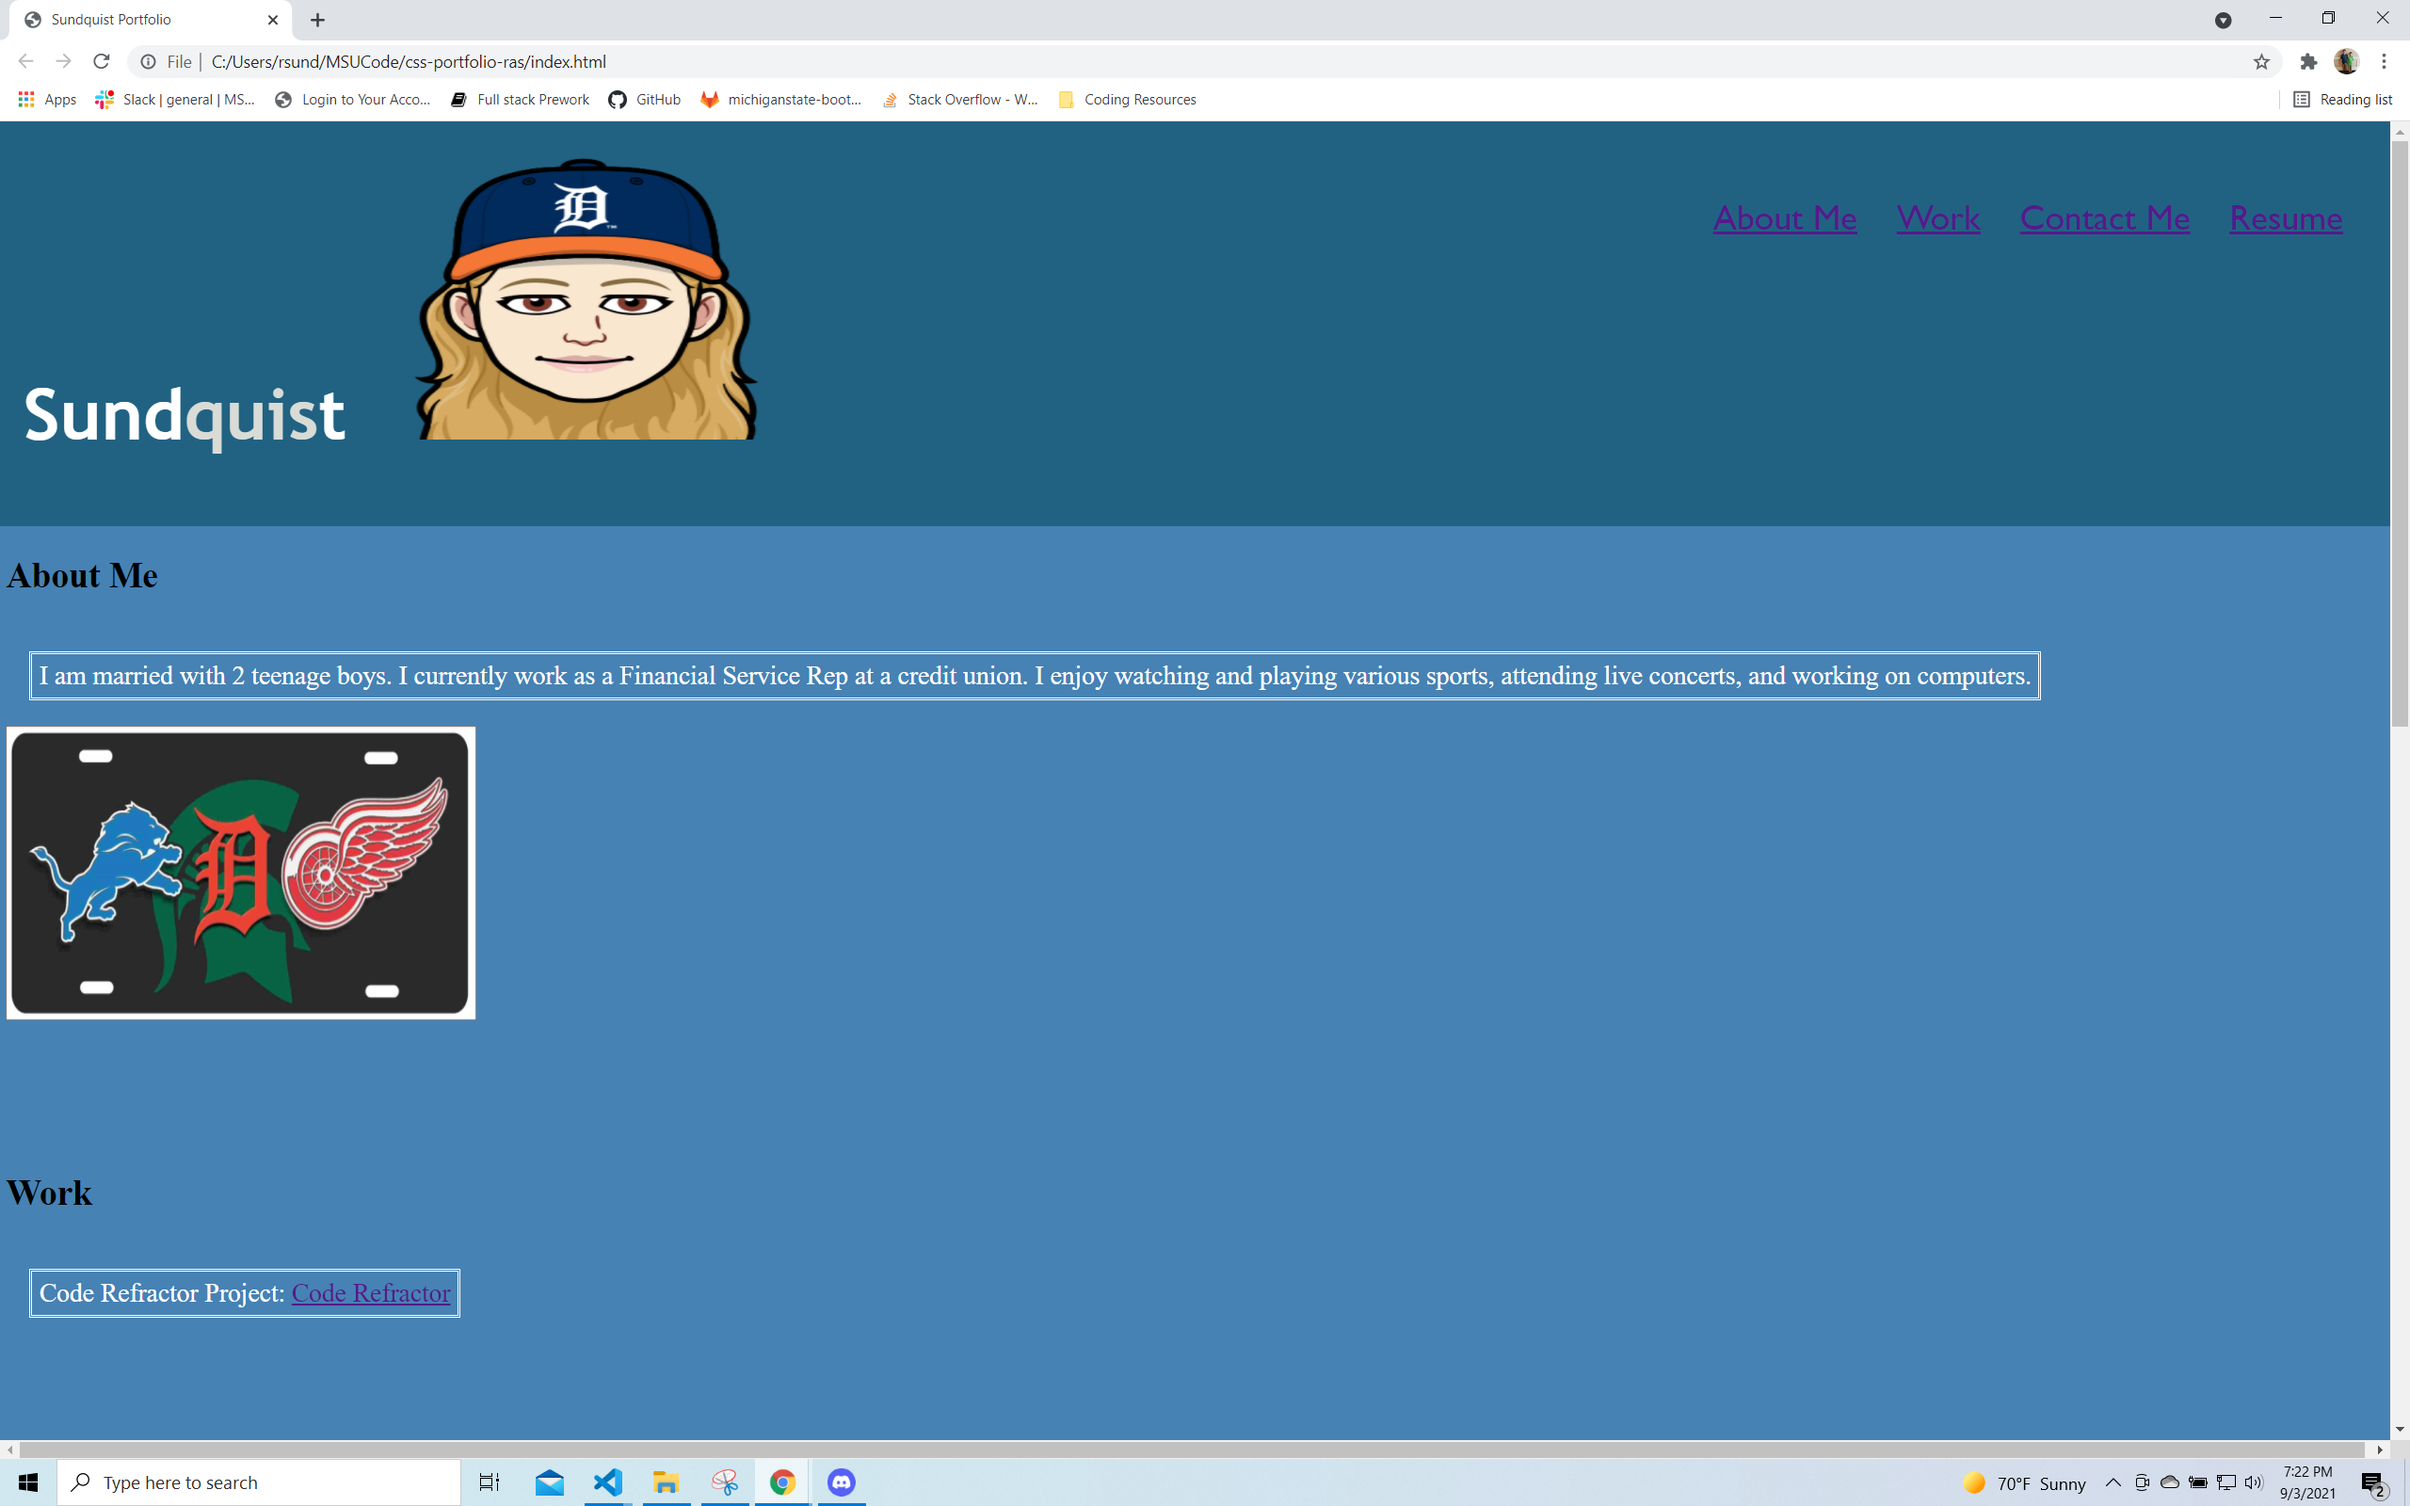
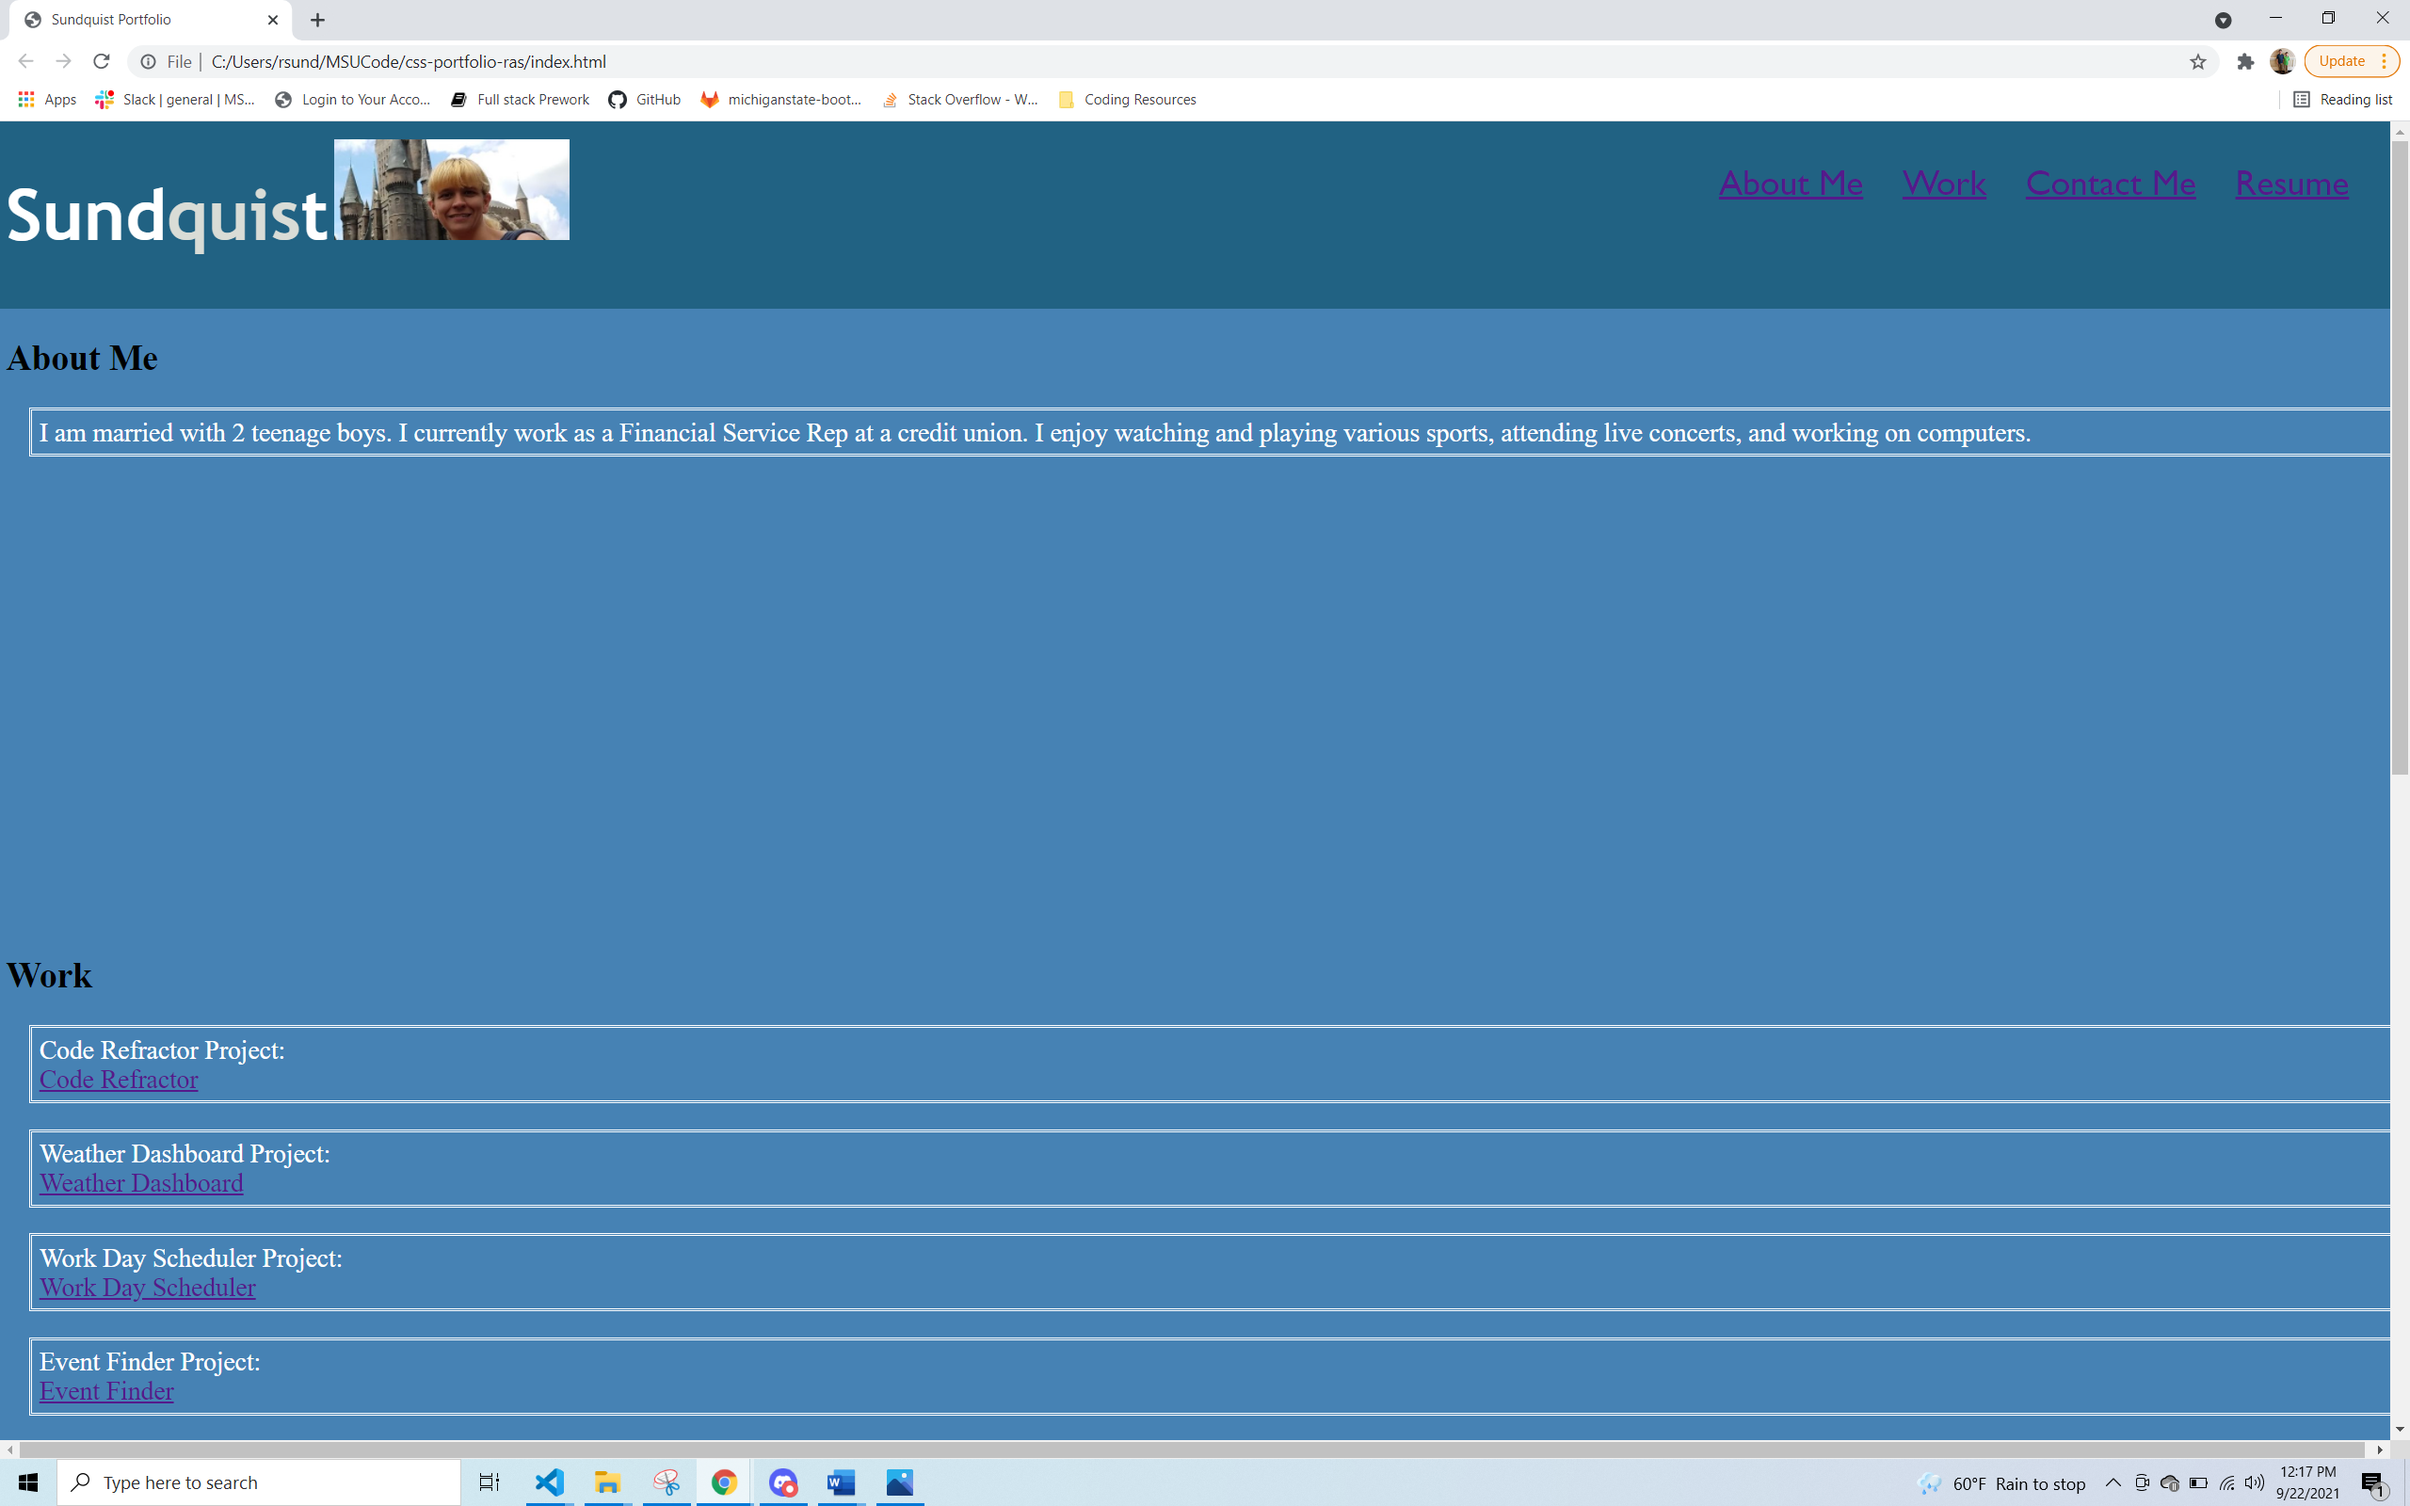
updated screenshot

diff --git a/Assets/CSS/style.css b/Assets/CSS/style.css
@@ -78,9 +78,10 @@ h1 {
     margin-left: 20px;
     font-size: 22px;
     border-style: double;
-    /* border-radius: inherit; */
+    /* border:initial; */
     display: flex;
     flex-direction: column;
+    
 }
 
 .a:link {
@@ -108,7 +109,7 @@ h1 {
 
     .header h1 {
         display: inline-block;
-        font-size: 20px;
+        font-size: 22px;
     }
     
     .header h1 .quis {
@@ -116,7 +117,7 @@ h1 {
     }
     
     .header img {
-        width: 20px;
+        width: 30px;
         height:auto
     }
 
@@ -125,7 +126,7 @@ h1 {
         margin-right: 5px;
         float: right;
         font-family: 'Gill Sans', 'Gill Sans MT', Calibri, 'Trebuchet MS', sans-serif;
-        font-size: 10px;
+        font-size: 12px;
     }
     
     .header nav ul {

diff --git a/index.html b/index.html
@@ -59,7 +59,7 @@
 
 <div class="container" id="resume">
     <h2>Resume</h2>
-    <p class="paragraph"> Resume <a href=Assets\BeckyResume.pdf>Resume</a> 
+    <p class="paragraph"> Resume: <a href=Assets\BeckyResume.pdf>Resume</a> 
     </p>
 </div>
 

diff --git a/README.md b/README.md
@@ -8,4 +8,4 @@
  - https://rsundquist.github.io/css-portfolio-ras/
 
 
-!['Screenshot'](Assets/Images/PortfolioScreenshot.png "Portfolio")
+!['Screenshot'](Assets/Images/portfolioScreenshot.png "Portfolio")
